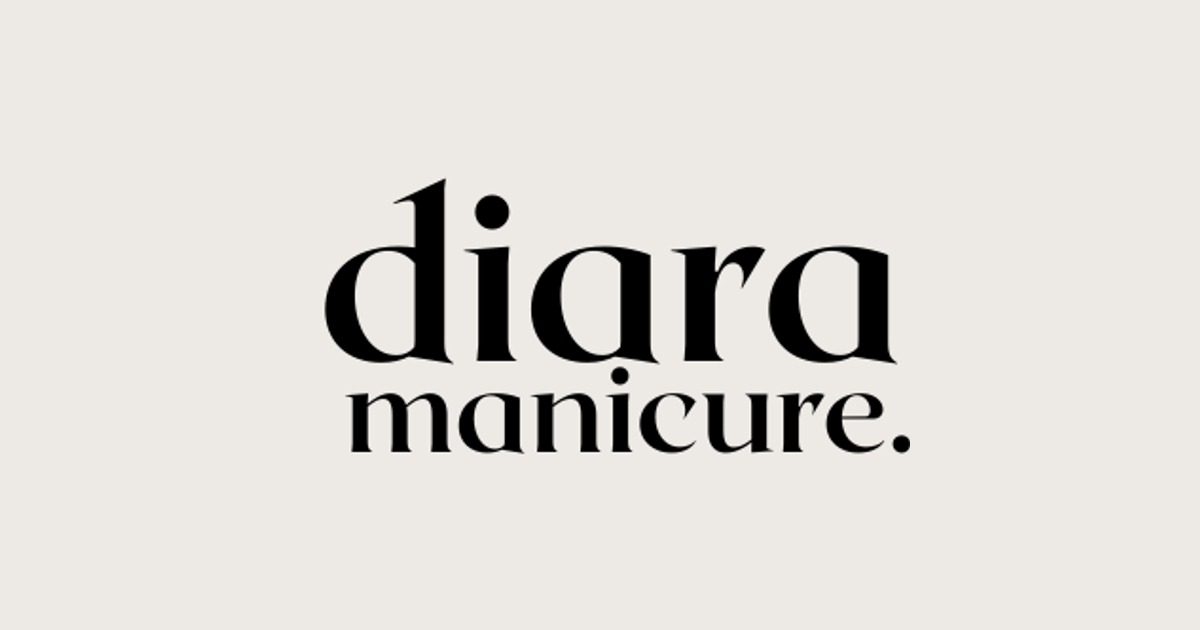
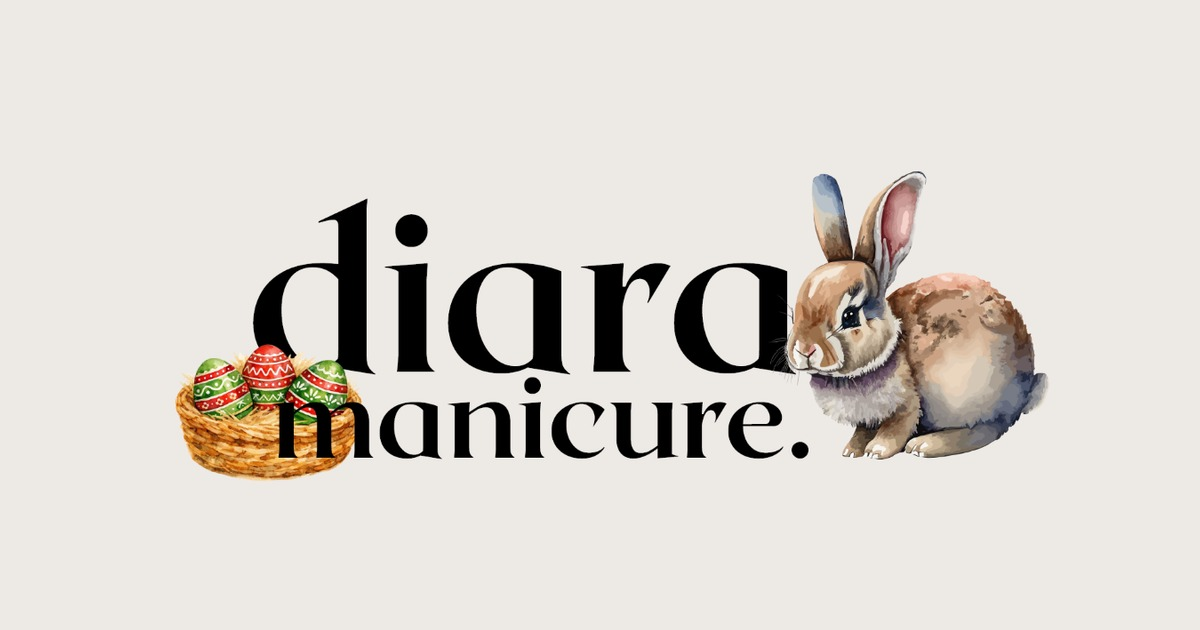
Restore Easter branding assets

Changed region(s): [[0.1233, 0.2714, 0.8942, 0.7841]]

diff --git a/components/sections/Footer.tsx b/components/sections/Footer.tsx
@@ -10,16 +10,16 @@ export function Footer() {
                 <div className="flex flex-col md:flex-row justify-between items-center gap-8">
                     <div className="flex flex-col items-center gap-3">
                         <Image
-                            src="/logo_day.png"
-                            alt="diara manicure"
+                            src="/logo_easter_day.png"
+                            alt="DIARA - Veľká noc 2026"
                             width={1536}
                             height={600}
                             className="h-20 w-auto object-contain dark:hidden"
                             unoptimized
                         />
                         <Image
-                            src="/logo_night.png"
-                            alt="diara manicure"
+                            src="/logo_easter_night.png"
+                            alt="DIARA - Veľká noc 2026"
                             width={1536}
                             height={600}
                             className="h-20 w-auto object-contain hidden dark:block"

diff --git a/components/sections/Hero.tsx b/components/sections/Hero.tsx
@@ -20,8 +20,8 @@ export function Hero({ bookingUrl, scrollToVisit }: HeroProps) {
 
             <div className="mb-8 relative w-full md:max-w-[660px] mx-auto">
                 <Image
-                    src="/logo_day.png"
-                    alt="Diara Manicure - Nechty Trnava"
+                    src="/logo_easter_day.png"
+                    alt="Diara Manicure - Nechty Trnava - Veľká noc 2026"
                     width={1536}
                     height={600}
                     className="w-full h-auto dark:hidden"
@@ -30,8 +30,8 @@ export function Hero({ bookingUrl, scrollToVisit }: HeroProps) {
                     unoptimized
                 />
                 <Image
-                    src="/logo_night.png"
-                    alt="Diara Manicure - Nechty Trnava"
+                    src="/logo_easter_night.png"
+                    alt="Diara Manicure - Nechty Trnava - Veľká noc 2026"
                     width={1536}
                     height={600}
                     className="w-full h-auto hidden dark:block"

diff --git a/components/schema-markup.tsx b/components/schema-markup.tsx
@@ -9,7 +9,7 @@ const SchemaMarkup = () => {
     "name": "diara manicure.",
     "alternateName": ["Diara Manicure", "Diara Manicure Trnava", "Nechty Trnava"],
     "image": [
-      "https://www.diaramanicure.sk/logo_day.png",
+      "https://www.diaramanicure.sk/logo_easter_day.png",
       "https://www.diaramanicure.sk/gelove-nechty-trnava-gallery-01.jpeg",
       "https://www.diaramanicure.sk/gelove-nechty-trnava-gallery-1.jpeg",
       "https://www.diaramanicure.sk/gelove-nechty-trnava-gallery-2.jpeg",

diff --git a/app/dakujeme/page.tsx b/app/dakujeme/page.tsx
@@ -32,7 +32,7 @@ export default function ThankYouPage() {
         return null
     }
 
-    const logoSrc = resolvedTheme === "dark" ? "/logo_night.png" : "/logo_day.png"
+    const logoSrc = resolvedTheme === "dark" ? "/logo_easter_night.png" : "/logo_easter_day.png"
 
     return (
         <div className="min-h-screen bg-beige dark:bg-black flex flex-col">
